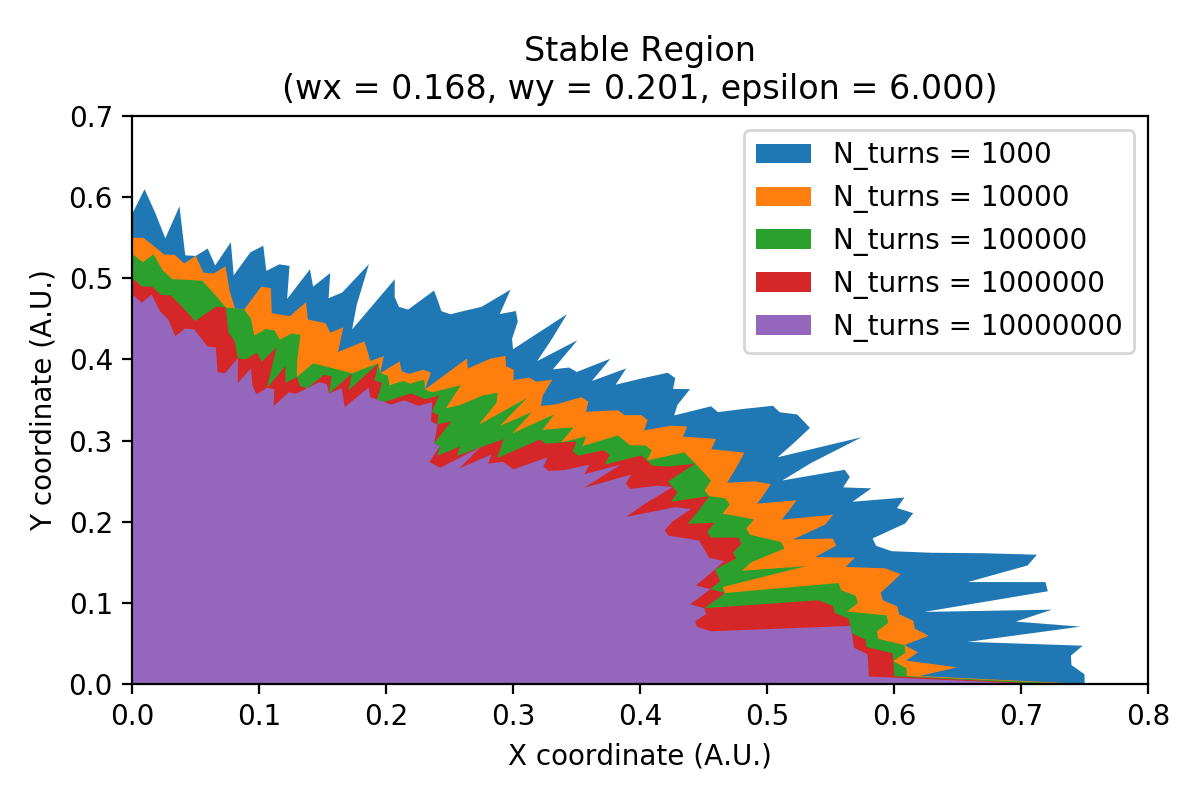
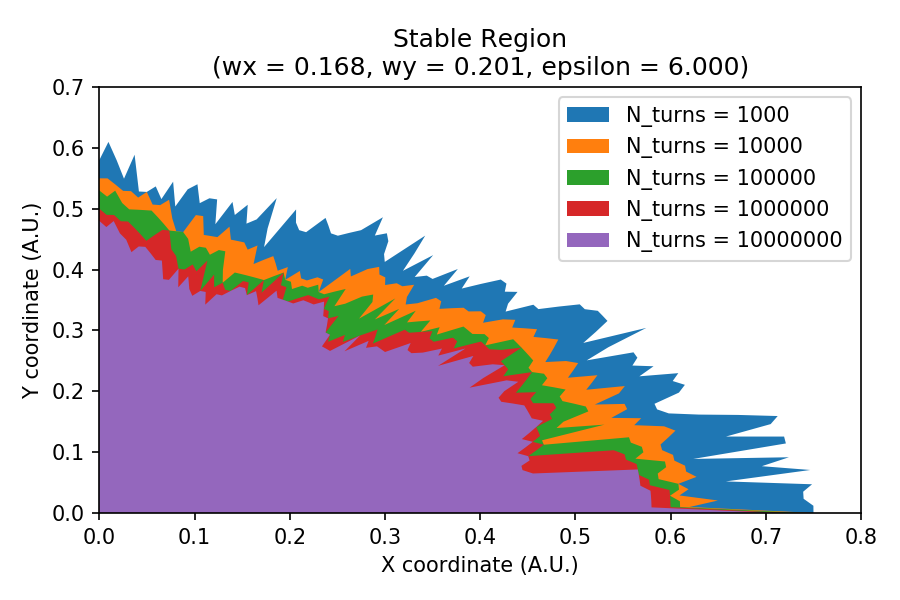
new angles, new images

diff --git a/fit.py b/fit.py
@@ -7,7 +7,7 @@ import png_to_jpg as converter
 # Print precision and DPI
 
 np.set_printoptions(precision=3)
-DPI = 200
+DPI = 150
 
 # Initialize Parameters used in the simulation
 
@@ -21,7 +21,11 @@ n_turns = np.array([1000, 1200, 1400, 1600, 1800, 2000, 3000, 4000, 5000, 6000, 
 
 partition_lists = np.array([[0, np.pi / 2]])
 
-#partition_lists = np.array([[0, np.pi / 2], [0, np.pi / 4, np.pi / 2], [0, np.pi / (2 * 3), np.pi / (3), np.pi / 2], [0, np.pi / 8, np.pi * 2 / 8, np.pi * 3 / 8, np.pi / 2]])
+partition_lists = np.array([[0, np.pi / 2], # Always always keep this one 
+                            [0, np.pi / 4, np.pi / 2], 
+                            [0, np.pi / (2 * 3), np.pi / (3), np.pi / 2], 
+                            [0, np.pi / 8, np.pi * 2 / 8, np.pi * 3 / 8, np.pi / 2],
+                            [0, np.pi / 10, np.pi * 2 / 10, np.pi * 3 / 10, np.pi * 4 / 10, np.pi / 2]])
 
 def divide_and_compute(data, n_turns, partition_list = [0, np.pi/2]):
     '''
@@ -208,109 +212,134 @@ for partition_list in partition_lists:
 
 #%%
 # Plot Everything 1
-
-for N in fit_parameters1:
-    for epsilon in fit_parameters1[N]:
-        for angle in fit_parameters1[N][epsilon]:
-            plt.errorbar(n_turns, [dynamic_aperture[N][epsilon][angle][0][i] for i in n_turns], yerr=[dynamic_aperture[N][epsilon][angle][1][i] for i in n_turns], linewidth = 0, elinewidth = 2, label = 'Data')
-            plt.plot(n_turns, function_1(n_turns, fit_parameters1[N][epsilon][angle][0],fit_parameters1[N][epsilon][angle][1],fit_parameters1[N][epsilon][angle][2]), 'g--', linewidth=0.5, label = 'fit: A={:6.3f}, B={:6.3f}, k={:6.3f}'.format(fit_parameters1[N][epsilon][angle][0],fit_parameters1[N][epsilon][angle][1],fit_parameters1[N][epsilon][angle][2]))
-            plt.axhline(y = fit_parameters1[N][epsilon][angle][0], color = 'r', linestyle = '-', label = 'y=A={:6.3f}'.format(fit_parameters1[N][epsilon][angle][0]))
-            plt.legend()
-            plt.xlabel("N turns")
-            plt.xscale("log")
-            plt.ylabel("D (A.U.)")
-            plt.ylim(0.,1.)
-            plt.title("Fit formula: A + B \\ (log10(x))^k\ndx = {:2.2f}, dth = {:3.3f}, c.angle = {:3.3f},\nepsilon = {:2.0f}, wx = {:3.3f}, wy = {:3.3f}".format(dx, dtheta, angle, epsilon[2], epsilon[0], epsilon[1]))
-            plt.tight_layout()
-            plt.savefig("img/fit1_eps{:2.0f}_wx{:3.3f}_wy{:3.3f}_angle{:3.3f}_Npart{}.png".format(epsilon[2], epsilon[0], epsilon[1],angle,len(partition_list) - 1), dpi = DPI)
-            plt.clf()
+N = 1
+for epsilon in fit_parameters1[N]:
+    for angle in fit_parameters1[N][epsilon]:
+        plt.errorbar(n_turns, [dynamic_aperture[N][epsilon][angle][0][i] for i in n_turns], yerr=[dynamic_aperture[N][epsilon][angle][1][i] for i in n_turns], linewidth = 0, elinewidth = 2, label = 'Data')
+        plt.plot(n_turns, function_1(n_turns, fit_parameters1[N][epsilon][angle][0],fit_parameters1[N][epsilon][angle][1],fit_parameters1[N][epsilon][angle][2]), 'g--', linewidth=0.5, label = 'fit: A={:6.3f}, B={:6.3f}, k={:6.3f}'.format(fit_parameters1[N][epsilon][angle][0],fit_parameters1[N][epsilon][angle][1],fit_parameters1[N][epsilon][angle][2]))
+        plt.axhline(y = fit_parameters1[N][epsilon][angle][0], color = 'r', linestyle = '-', label = 'y=A={:6.3f}'.format(fit_parameters1[N][epsilon][angle][0]))
+        plt.legend()
+        plt.xlabel("N turns")
+        plt.xscale("log")
+        plt.ylabel("D (A.U.)")
+        plt.ylim(0.,1.)
+        plt.title("Fit formula: A + B \\ (log10(x))^k\ndx = {:2.2f}, dth = {:3.3f}, c.angle = {:3.3f},\nepsilon = {:2.0f}, wx = {:3.3f}, wy = {:3.3f}".format(dx, dtheta, angle, epsilon[2], epsilon[0], epsilon[1]))
+        plt.tight_layout()
+        plt.savefig("img/fit1_eps{:2.0f}_wx{:3.3f}_wy{:3.3f}_angle{:3.3f}_Npart{}.png".format(epsilon[2], epsilon[0], epsilon[1],angle,len(partition_list) - 1), dpi = DPI)
+        plt.clf()
             
 #%%
 # Plot Everything 2
-
-for N in fit_parameters2:
-    for epsilon in fit_parameters2[N]:
-        for angle in fit_parameters2[N][epsilon]:
-            plt.errorbar(n_turns, [dynamic_aperture[N][epsilon][angle][0][i] for i in n_turns], yerr=[dynamic_aperture[N][epsilon][angle][1][i] for i in n_turns], linewidth = 0, elinewidth = 2, label = 'Data')
-            plt.plot(n_turns, function_2(n_turns, fit_parameters2[N][epsilon][angle][0],fit_parameters2[N][epsilon][angle][1],fit_parameters2[N][epsilon][angle][2]), 'g--', linewidth=0.5, label = 'fit: A={:6.3f}, B={:6.3f}, k={:6.3f}'.format(fit_parameters2[N][epsilon][angle][0],fit_parameters2[N][epsilon][angle][1],fit_parameters2[N][epsilon][angle][2]))
-            plt.legend()
-            plt.xlabel("N turns")
-            plt.xscale("log")
-            plt.ylabel("D (A.U.)")
-            plt.ylim(0.,1.)
-            plt.title("Fit formula: B \\ (log10(x) - A)^k\ndx = {:2.2f}, dth = {:3.3f}, c.angle = {:3.3f},\nepsilon = {:2.0f}, wx = {:3.3f}, wy = {:3.3f}".format(dx, dtheta, angle, epsilon[2], epsilon[0], epsilon[1]))
-            plt.tight_layout()
-            plt.savefig("img/fit2_eps{:2.0f}_wx{:3.3f}_wy{:3.3f}_angle{:3.3f}_Npart{}.png".format(epsilon[2], epsilon[0], epsilon[1],angle,len(partition_list) - 1), dpi = DPI)
-            plt.clf()
+N = 1
+for epsilon in fit_parameters2[N]:
+    for angle in fit_parameters2[N][epsilon]:
+        plt.errorbar(n_turns, [dynamic_aperture[N][epsilon][angle][0][i] for i in n_turns], yerr=[dynamic_aperture[N][epsilon][angle][1][i] for i in n_turns], linewidth = 0, elinewidth = 2, label = 'Data')
+        plt.plot(n_turns, function_2(n_turns, fit_parameters2[N][epsilon][angle][0],fit_parameters2[N][epsilon][angle][1],fit_parameters2[N][epsilon][angle][2]), 'g--', linewidth=0.5, label = 'fit: A={:6.3f}, B={:6.3f}, k={:6.3f}'.format(fit_parameters2[N][epsilon][angle][0],fit_parameters2[N][epsilon][angle][1],fit_parameters2[N][epsilon][angle][2]))
+        plt.legend()
+        plt.xlabel("N turns")
+        plt.xscale("log")
+        plt.ylabel("D (A.U.)")
+        plt.ylim(0.,1.)
+        plt.title("Fit formula: B \\ (log10(x) - A)^k\ndx = {:2.2f}, dth = {:3.3f}, c.angle = {:3.3f},\nepsilon = {:2.0f}, wx = {:3.3f}, wy = {:3.3f}".format(dx, dtheta, angle, epsilon[2], epsilon[0], epsilon[1]))
+        plt.tight_layout()
+        plt.savefig("img/fit2_eps{:2.0f}_wx{:3.3f}_wy{:3.3f}_angle{:3.3f}_Npart{}.png".format(epsilon[2], epsilon[0], epsilon[1],angle,len(partition_list) - 1), dpi = DPI)
+        plt.clf()
 
 #%%
 # Plot Everything 3
-
-for N in fit_parameters3:
-    for epsilon in fit_parameters3[N]:
-        for angle in fit_parameters3[N][epsilon]:
-            plt.errorbar(n_turns, [dynamic_aperture[N][epsilon][angle][0][i] for i in n_turns], yerr=[dynamic_aperture[N][epsilon][angle][1][i] for i in n_turns], linewidth = 0, elinewidth = 2, label = 'Data')
-            plt.plot(n_turns, function_3(n_turns, fit_parameters3[N][epsilon][angle][0],fit_parameters3[N][epsilon][angle][1],fit_parameters3[N][epsilon][angle][2]), 'g--', linewidth=0.5, label = 'fit: A={:6.3f}, B={:6.3f}, k={:6.3f}'.format(fit_parameters3[N][epsilon][angle][0],fit_parameters3[N][epsilon][angle][1],fit_parameters3[N][epsilon][angle][2]))
-            plt.axhline(y = fit_parameters3[N][epsilon][angle][0], color = 'r', linestyle = '-', label = 'y=A={:6.3f}'.format(fit_parameters3[N][epsilon][angle][0]))
-            plt.legend()
-            plt.xlabel("N turns")
-            plt.xscale("log")
-            plt.ylabel("D (A.U.)")
-            plt.ylim(0.,1.)
-            plt.title("Fit formula: A * (1 + B \\ (log10(x) - C)^k)\ndx = {:2.2f}, dth = {:3.3f}, c.angle = {:3.3f},\nepsilon = {:2.0f}, wx = {:3.3f}, wy = {:3.3f}".format(dx, dtheta, angle, epsilon[2], epsilon[0], epsilon[1]))
-            plt.tight_layout()
-            plt.savefig("img/fit3_eps{:2.0f}_wx{:3.3f}_wy{:3.3f}_angle{:3.3f}_Npart{}.png".format(epsilon[2], epsilon[0], epsilon[1],angle,len(partition_list) - 1), dpi = DPI)
-            plt.clf()
+N = 1
+for epsilon in fit_parameters3[N]:
+    for angle in fit_parameters3[N][epsilon]:
+        plt.errorbar(n_turns, [dynamic_aperture[N][epsilon][angle][0][i] for i in n_turns], yerr=[dynamic_aperture[N][epsilon][angle][1][i] for i in n_turns], linewidth = 0, elinewidth = 2, label = 'Data')
+        plt.plot(n_turns, function_3(n_turns, fit_parameters3[N][epsilon][angle][0],fit_parameters3[N][epsilon][angle][1],fit_parameters3[N][epsilon][angle][2]), 'g--', linewidth=0.5, label = 'fit: A={:6.3f}, B={:6.3f}, k={:6.3f}'.format(fit_parameters3[N][epsilon][angle][0],fit_parameters3[N][epsilon][angle][1],fit_parameters3[N][epsilon][angle][2]))
+        plt.axhline(y = fit_parameters3[N][epsilon][angle][0], color = 'r', linestyle = '-', label = 'y=A={:6.3f}'.format(fit_parameters3[N][epsilon][angle][0]))
+        plt.legend()
+        plt.xlabel("N turns")
+        plt.xscale("log")
+        plt.ylabel("D (A.U.)")
+        plt.ylim(0.,1.)
+        plt.title("Fit formula: A * (1 + B \\ (log10(x) - C)^k)\ndx = {:2.2f}, dth = {:3.3f}, c.angle = {:3.3f},\nepsilon = {:2.0f}, wx = {:3.3f}, wy = {:3.3f}".format(dx, dtheta, angle, epsilon[2], epsilon[0], epsilon[1]))
+        plt.tight_layout()
+        plt.savefig("img/fit3_eps{:2.0f}_wx{:3.3f}_wy{:3.3f}_angle{:3.3f}_Npart{}.png".format(epsilon[2], epsilon[0], epsilon[1],angle,len(partition_list) - 1), dpi = DPI)
+        plt.clf()
 
 #%%
 # Fit Parameter Comparison 1
-
-for epsilon in fit_parameters1[list(fit_parameters1.keys())[0]]:
-    theta = []
-    A = []
-    B = []
-    k = []    
-    for sector in fit_parameters1:
-        for angle in fit_parameters1[sector][epsilon]:
-            theta.append(angle)
-            A.append(fit_parameters1[sector][epsilon][angle][0])
-            B.append(fit_parameters1[sector][epsilon][angle][1])
-            k.append(fit_parameters1[sector][epsilon][angle][2])
-    plt.plot(theta, A, "o", linewidth = 0.5, label = "A")
-    plt.plot(theta, B, "*", linewidth = 0.5, label = "B")
-    plt.plot(theta, k, "^", linewidth = 0.5, label = "k")
-    plt.xlabel("Theta (radians)")
-    plt.ylabel("Fit values (A.U.)")
-    plt.title("Fit values at different angles,\nepsilon = {:2.0f}, wx = {:3.3f}, wy = {:3.3f}".format(epsilon[2], epsilon[0], epsilon[1]))
-    plt.legend()
-    plt.tight_layout()
-    plt.savefig("img/angles1_eps{:2.0f}_wx{:3.3f}_wy{:3.3f}.png".format(epsilon[2], epsilon[0], epsilon[1]), dpi = DPI)
-    plt.clf()
+for sector in fit_parameters1:
+    if sector > 1:
+        for epsilon in fit_parameters1[sector]:    
+            theta = []
+            A = []
+            B = []
+            k = []
+            for angle in fit_parameters1[sector][epsilon]:
+                theta.append(angle / np.pi)
+                A.append(fit_parameters1[sector][epsilon][angle][0])
+                B.append(fit_parameters1[sector][epsilon][angle][1])
+                k.append(fit_parameters1[sector][epsilon][angle][2])
+            plt.plot(theta, A, marker = "o", linewidth = 0.5, label = "A")
+            plt.plot(theta, B, marker = "*", linewidth = 0.5, label = "B")
+            plt.plot(theta, k, marker = "^", linewidth = 0.5, label = "k")
+            plt.xlim((0,0.5))
+            plt.xlabel("Theta (radians / pi)")
+            plt.ylabel("Fit values (A.U.)")
+            plt.title("Fit 1 values at different angles (n_sectors = {}),\nepsilon = {:2.0f}, wx = {:3.3f}, wy = {:3.3f}".format(sector, epsilon[2], epsilon[0], epsilon[1]))
+            plt.legend()
+            plt.tight_layout()
+            plt.savefig("img/angles1_nsec{}_eps{:2.0f}_wx{:3.3f}_wy{:3.3f}.png".format(sector, epsilon[2], epsilon[0], epsilon[1]), dpi = DPI)
+            plt.clf()
 
 #%%
 # Fit Parameter Comparison 2
+for sector in fit_parameters2:
+    if sector > 1:
+        for epsilon in fit_parameters2[sector]:
+            theta = []
+            A = []
+            B = []
+            k = []    
+            for angle in fit_parameters2[sector][epsilon]:
+                theta.append(angle / np.pi)
+                A.append(fit_parameters2[sector][epsilon][angle][0])
+                B.append(fit_parameters2[sector][epsilon][angle][1])
+                k.append(fit_parameters2[sector][epsilon][angle][2])
+            plt.plot(theta, A, marker = "o", linewidth = 0.5, label = "A")
+            plt.plot(theta, B, marker = "*", linewidth = 0.5, label = "B")
+            plt.plot(theta, k, marker = "^", linewidth = 0.5, label = "k")
+            plt.xlim((0,0.5))
+            plt.xlabel("Theta (radians / pi)")
+            plt.ylabel("Fit values (A.U.)")
+            plt.title("Fit 2 values at different angles (n_sectors = {}),\nepsilon = {:2.0f}, wx = {:3.3f}, wy = {:3.3f}".format(sector, epsilon[2], epsilon[0], epsilon[1]))
+            plt.legend()
+            plt.tight_layout()
+            plt.savefig("img/angles2_nsec{}_eps{:2.0f}_wx{:3.3f}_wy{:3.3f}.png".format(sector, epsilon[2], epsilon[0], epsilon[1]), dpi = DPI)
+            plt.clf()
 
-for epsilon in fit_parameters2[list(fit_parameters2.keys())[0]]:
-    theta = []
-    A = []
-    B = []
-    k = []    
-    for sector in fit_parameters2:
-        for angle in fit_parameters2[sector][epsilon]:
-            theta.append(angle)
-            A.append(fit_parameters2[sector][epsilon][angle][0])
-            B.append(fit_parameters2[sector][epsilon][angle][1])
-            k.append(fit_parameters2[sector][epsilon][angle][2])
-    plt.plot(theta, A, "o", linewidth = 0.5, label = "A")
-    plt.plot(theta, B, "*", linewidth = 0.5, label = "B")
-    plt.plot(theta, k, "^", linewidth = 0.5, label = "k")
-    plt.xlabel("Theta (radians)")
-    plt.ylabel("Fit values (A.U.)")
-    plt.title("Fit values at different angles,\nepsilon = {:2.0f}, wx = {:3.3f}, wy = {:3.3f}".format(epsilon[2], epsilon[0], epsilon[1]))
-    plt.legend()
-    plt.tight_layout()
-    plt.savefig("img/angles2_eps{:2.0f}_wx{:3.3f}_wy{:3.3f}.png".format(epsilon[2], epsilon[0], epsilon[1]), dpi = DPI)
-    plt.clf()
+#%%
+# Fit Parameter Comparison 3
+for sector in fit_parameters3:
+    if sector > 1:
+        for epsilon in fit_parameters3[sector]:    
+            theta = []
+            A = []
+            B = []
+            k = []
+            for angle in fit_parameters3[sector][epsilon]:
+                theta.append(angle / np.pi)
+                A.append(fit_parameters3[sector][epsilon][angle][0])
+                B.append(fit_parameters3[sector][epsilon][angle][1])
+                k.append(fit_parameters3[sector][epsilon][angle][2])
+            plt.plot(theta, A, marker = "o", linewidth = 0.5, label = "A")
+            plt.plot(theta, B, marker = "*", linewidth = 0.5, label = "B")
+            plt.plot(theta, k, marker = "^", linewidth = 0.5, label = "k")
+            plt.xlim((0,0.5))
+            plt.xlabel("Theta (radians / pi)")
+            plt.ylabel("Fit values (A.U.)")
+            plt.title("Fit 3 values at different angles (n_sectors = {}),\nepsilon = {:2.0f}, wx = {:3.3f}, wy = {:3.3f}".format(sector, epsilon[2], epsilon[0], epsilon[1]))
+            plt.legend()
+            plt.tight_layout()
+            plt.savefig("img/angles3_nsec{}_eps{:2.0f}_wx{:3.3f}_wy{:3.3f}.png".format(sector, epsilon[2], epsilon[0], epsilon[1]), dpi = DPI)
+            plt.clf()
 
 
 #%%
